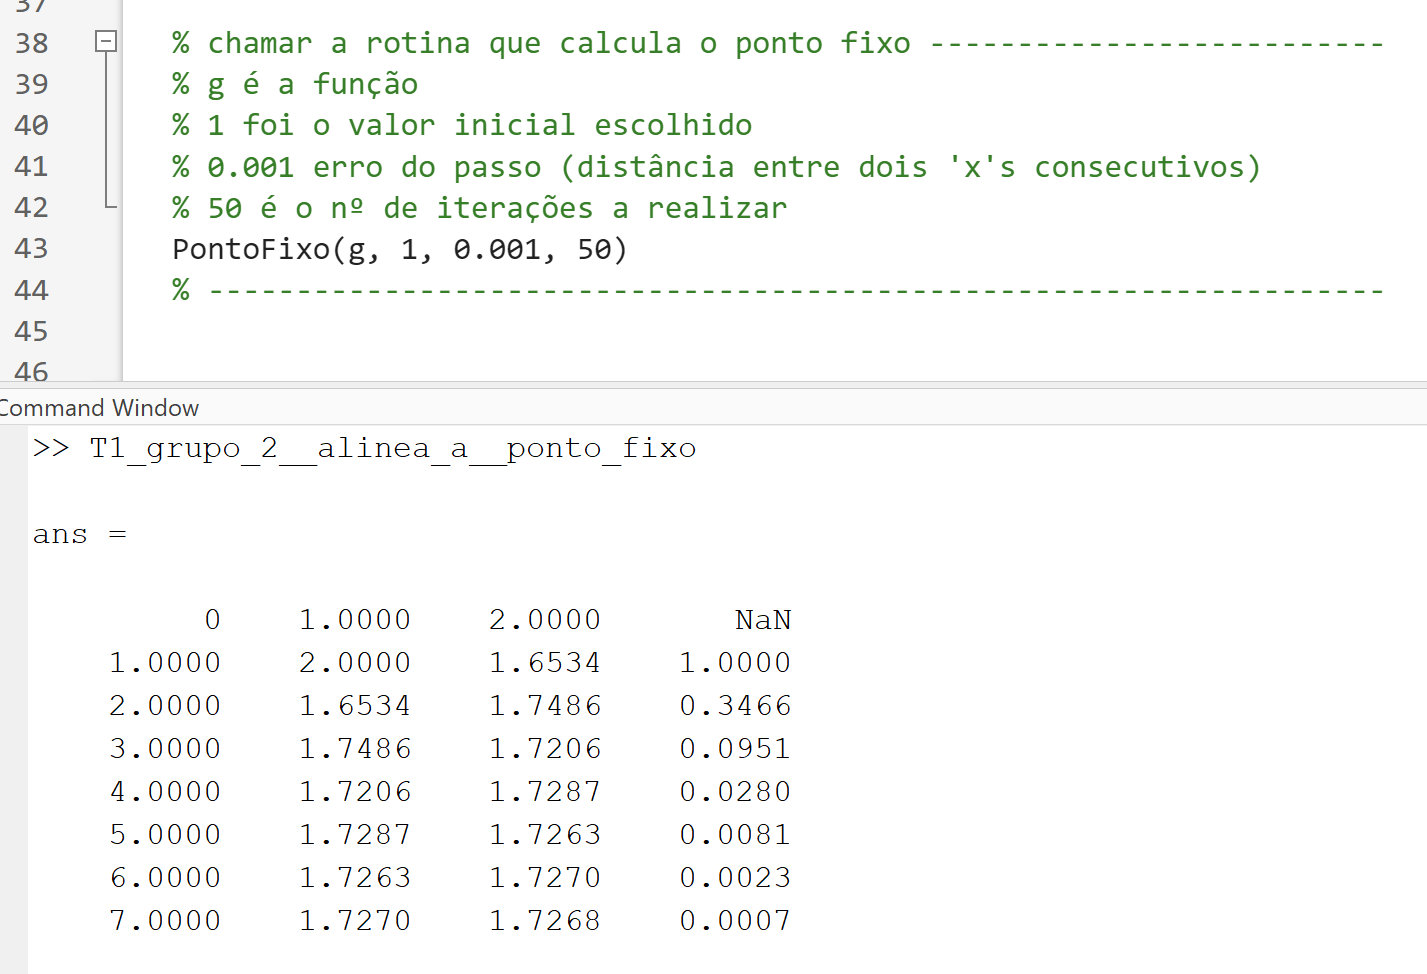
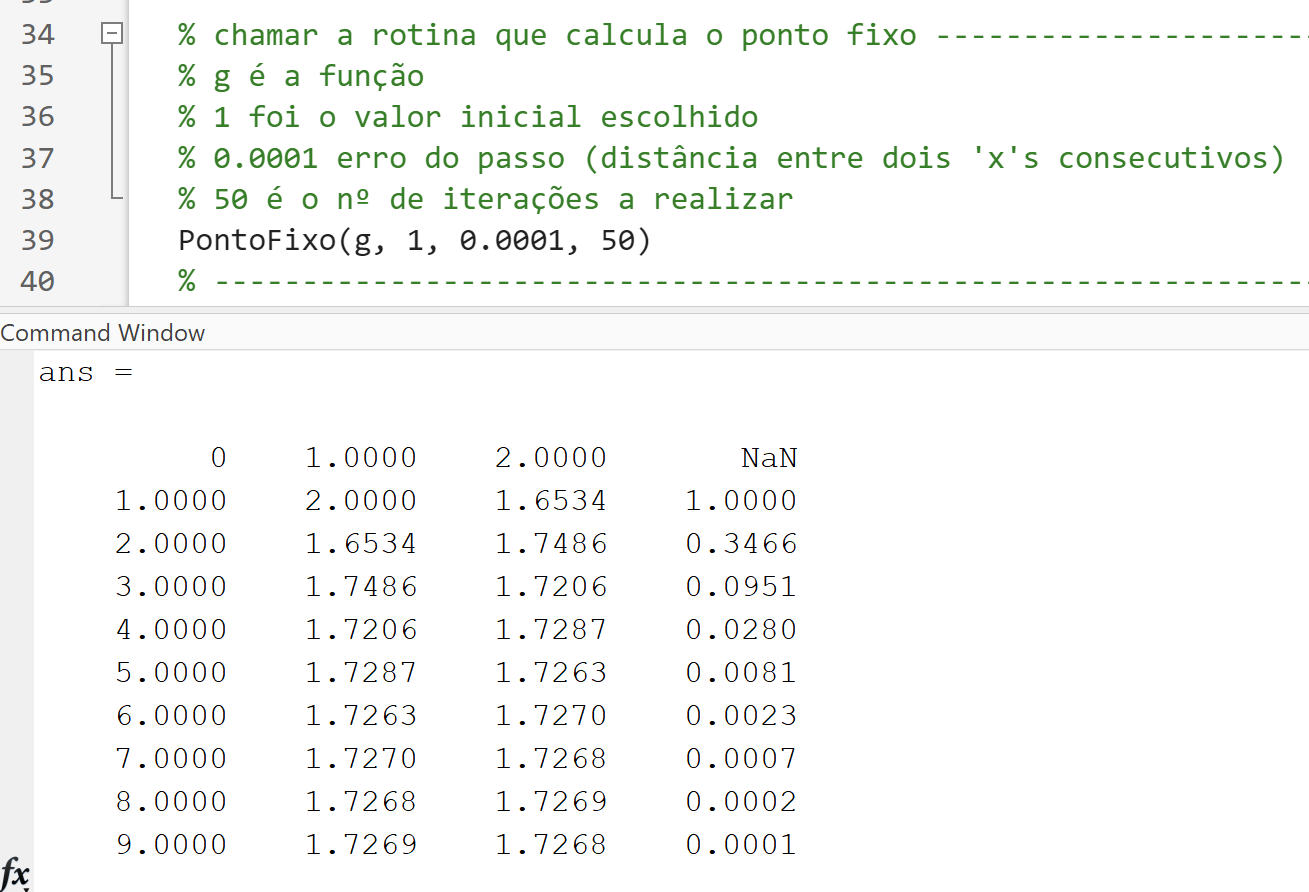
first commit

diff --git a/T1_grupo_2__alinea_b__metodo_de_Newton_Raphson.m b/T1_grupo_2__alinea_b__metodo_de_Newton_Raphson.m
@@ -17,16 +17,17 @@ ax.XAxisLocation = 'origin';
 ax.YAxisLocation = 'origin';
 % -------------------------------------------------------------------
 
-% transfomámos o problema da pesquisa do ponto fixo, que resolvemos
+
+% transfomamos o problema da pesquisa do ponto fixo, que resolvemos
 % na alínea anterior, num problema de pesquisa de zeros. 
 % 
-% Como o ponto fixo era o ponto de interseção entre a função g
+% Como o ponto fixo é o ponto de interseção entre a função g
 % e a bissetriz dos quadrantes ímpares, temos que:
 % 
 % Ponto fixo <=>  g(x) = x  <=>  g(x) - x = 0
 % 
 % fazendo h(x) = g(x) - x temos: ------------------------------------
-h = @(x) 2 - (log(x)/2) - x;
+h = @(x) 2-(log(x)/2) - x;
 % -------------------------------------------------------------------
 
 
@@ -46,13 +47,13 @@ plot(x_intercept, zeros(size(x_intercept)), 'ro', 'MarkerSize', 10);
 % -------------------------------------------------------------------
 
 
-% econtrar o zero através do método de Newton-Raphson ---------------
+% econtrar o zero através do método Newton-Raphson ------------------
 % h é a função
 % dh é a 1ª derivada de h
 % 2 é o ponto inicial escolhido
-% 0.001 é o valor dos erros
+% 0.0001 é o valor dos erros
 % 50 é o nº de iterações
-MetNR(h, dh, 2, 0.001, 0.001, 50)
+MetNR(h, dh, 2, 0.0001, 0.0001, 50)
 % -------------------------------------------------------------------
 
 

diff --git a/T1_grupo_2__alinea_a__ponto_fixo.m b/T1_grupo_2__alinea_a__ponto_fixo.m
@@ -24,21 +24,28 @@ fplot(bissetriz_dos_quadrantes_impares, [sqrt(2), 2]);
 fplot(g, [sqrt(2), 2], 'LineWidth', 2);
 % -------------------------------------------------------------------
 
+% desenhar o ponto fixo ---------------------------------------------
+pf_zero = matlabFunction(2-(log(x)/2)-x);
+pf_intercept = fzero(pf_zero, 2);
+plot(pf_intercept, pf_intercept, 'go', 'MarkerSize', 10);
+% -------------------------------------------------------------------
+
+
 % chamar a rotina que calcula o ponto fixo --------------------------
 % g é a função
 % 1 foi o valor inicial escolhido
-% 0.001 erro do passo (distância entre dois 'x's consecutivos)
+% 0.0001 erro do passo (distância entre dois 'x's consecutivos)
 % 50 é o nº de iterações a realizar
-PontoFixo(g, 1, 0.001, 50)
+PontoFixo(g, 1, 0.0001, 50)
 % -------------------------------------------------------------------
 
 
 % demonstrar que o ponto fixo é único no intervalo [sqrt(2), 2] -----
 % 1ª derivada de g
 dg = matlabFunction(diff(g, x));
-
-% desenhar a 1ª derivada no gráfico
-fplot(dg, [sqrt(2), 2], 'LineWidth', 2);
+% desenhar a 1ª derivada no gráfico ---------------------------------
+fplot(dg, [sqrt(2), 2], 'Color', '#EDB120', 'LineWidth', 2);
+% -------------------------------------------------------------------
 
 % mostrar valor de f'(x) nos extremos do intervalo [sqrt(2), 2] -----
 disp("valor de f'(sqrt(2)):")

diff --git a/T1_grupo_2__alinea_b__metodo_da_bissecao.m b/T1_grupo_2__alinea_b__metodo_da_bissecao.m
@@ -46,9 +46,9 @@ plot(x_intercept, zeros(size(x_intercept)), 'ro', 'MarkerSize', 10);
 % h é a função
 % sqrt(2) é o limite inferior do intervalo
 % 2 é o limite superior do intervalo
-% 0.001 é o valor dos erros
+% 0.0001 é o valor dos erros
 % 50 é o nº de iterações
-MetBiss(h, sqrt(2), 2, 0.001, 0.001, 50)
+MetBiss(h, sqrt(2), 2, 0.0001, 0.0001, 50)
 % -------------------------------------------------------------------
 
 
